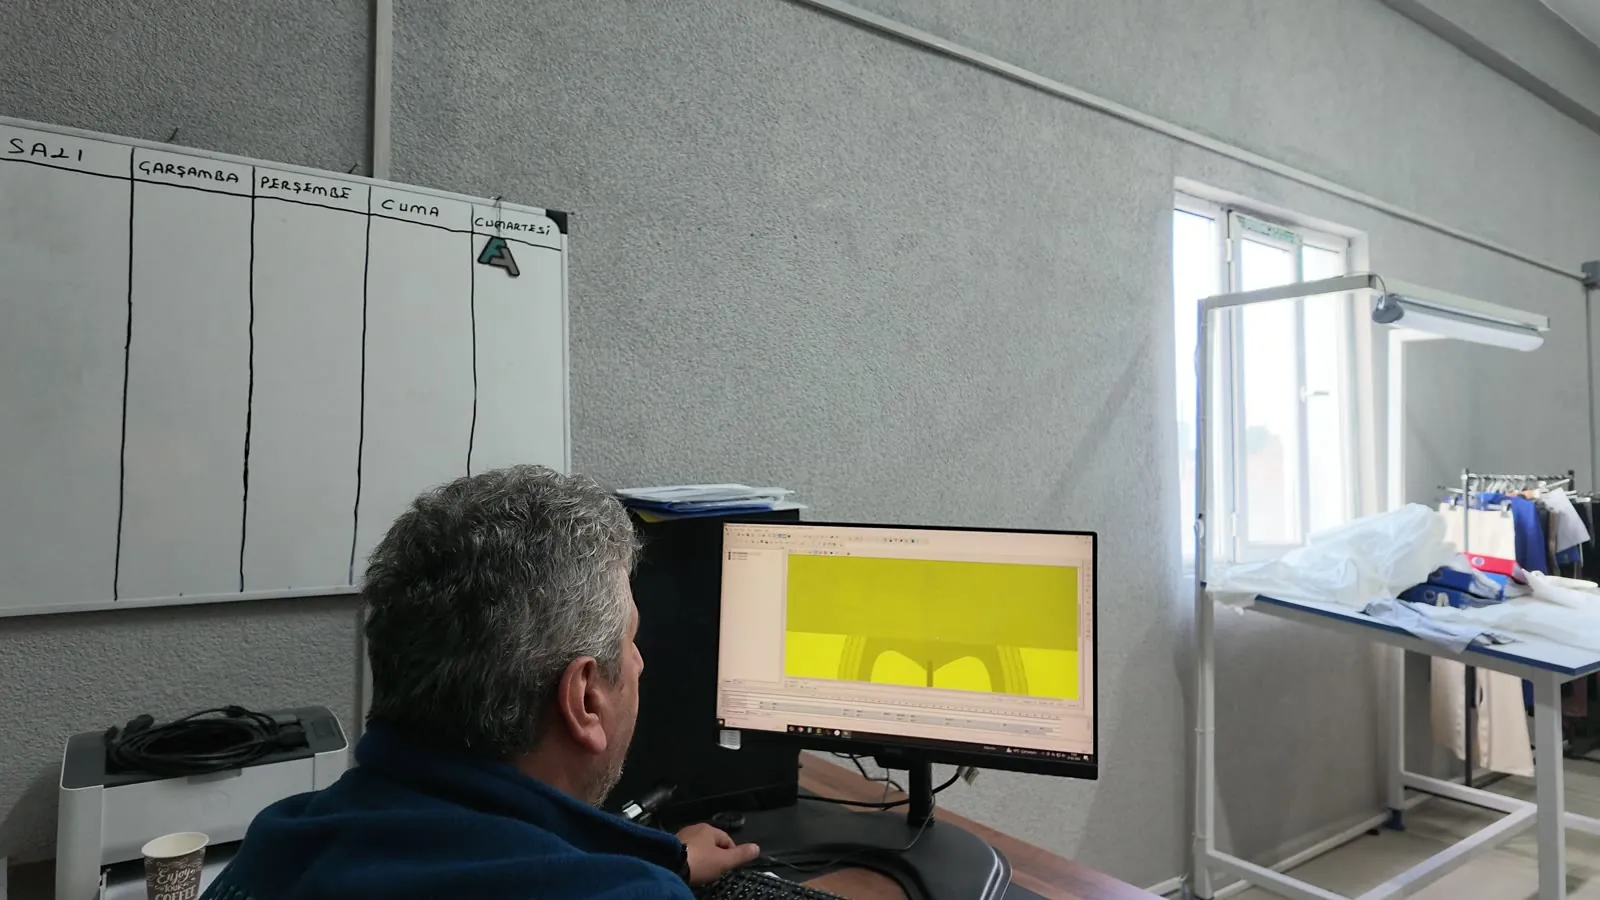
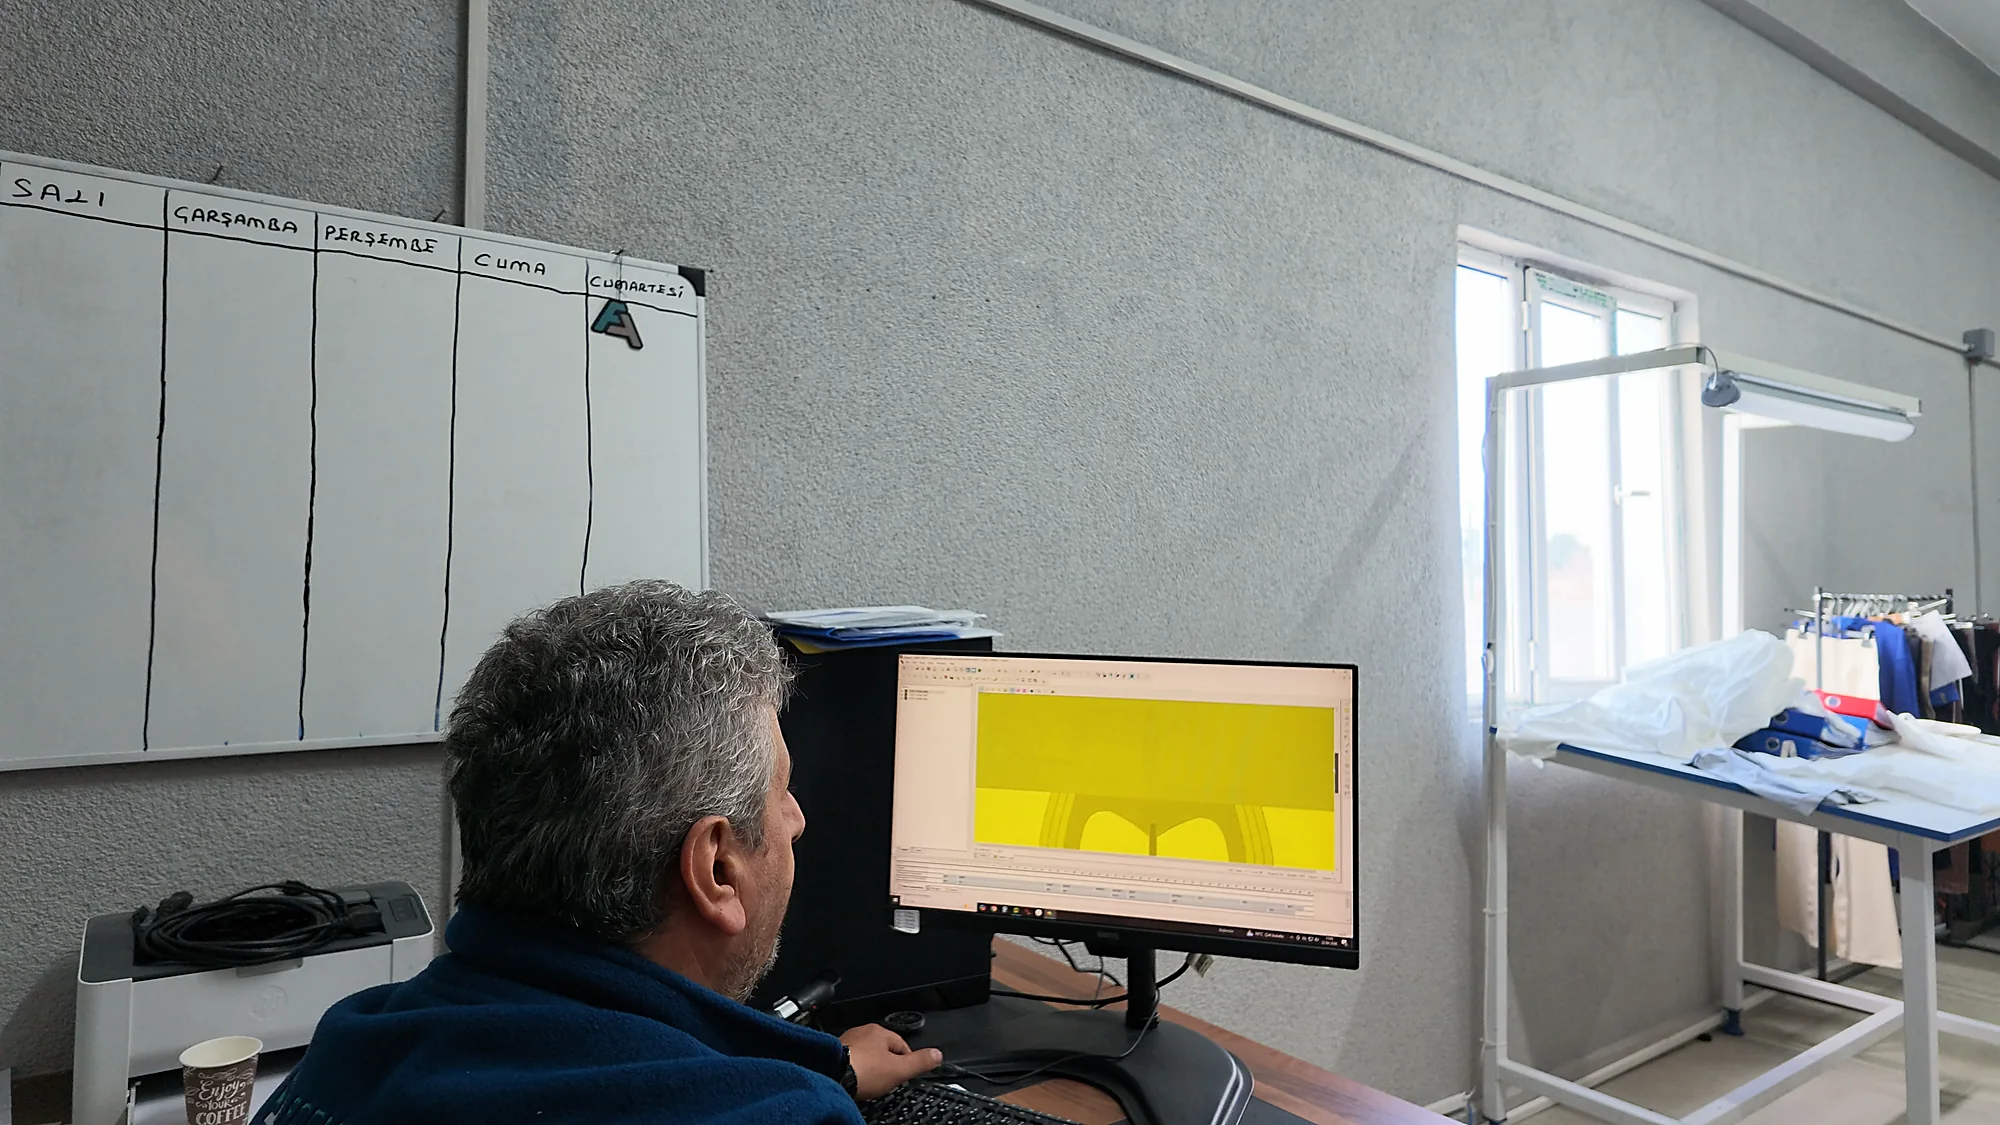
Görseller 4K çekimlerden yüksek kalitede yenilendi; hero ilk slaytı ve süreç adımları gerçek fabrika kareleri; kayan bant iki sıralı yeni yapı
Claude-Session: https://claude.ai/code/session_01KHVzSgb32H8fJu9vaSQ6GH

diff --git a/src/lib/site-media.ts b/src/lib/site-media.ts
@@ -10,11 +10,11 @@ const PRODUCT_IMAGES =
  * `fallback` kullanılır; yani panelde hiçbir şey yapılmadıysa site bugünkü gibi görünür.
  */
 export const SITE_IMAGE_SLOTS = [
-  { key: "pageHero", page: "Genel", label: "Sayfa başlık bandı (Hakkımızda, Süreçler, Katalog, Blog, İletişim)", fallback: "/images/factory-floor.webp" },
-  { key: "mobileNav.card", page: "Genel", label: "Mobil menüdeki teklif kartı", fallback: "/blog/Fuar-Blog.webp" },
-  { key: "home.heroPoster", page: "Ana sayfa", label: "Slider arka plan videosu yüklenirken görünen görsel", fallback: "/images/factory-floor.webp" },
+  { key: "pageHero", page: "Genel", label: "Sayfa başlık bandı (Hakkımızda, Süreçler, Katalog, Blog, İletişim)", fallback: "/tesis/orme-koridor.webp" },
+  { key: "mobileNav.card", page: "Genel", label: "Mobil menüdeki iletişim kartı", fallback: "/tesis/dis-cephe.webp" },
+  { key: "home.heroPoster", page: "Ana sayfa", label: "Slider arka plan videosu yüklenirken görünen görsel", fallback: "/tesis/hero-poster.webp" },
   { key: "home.color", page: "Ana sayfa", label: "Renk bölümü arka planı", fallback: "/marka/bg-sidea.webp" },
-  { key: "home.growth", page: "Ana sayfa", label: "Büyüme / vizyon bölümü arka planı", fallback: "/images/factory-floor.webp" },
+  { key: "home.growth", page: "Ana sayfa", label: "Büyüme / vizyon bölümü arka planı", fallback: "/tesis/dis-cephe-genis.webp" },
   { key: "home.collection.shorts", page: "Ana sayfa", label: "Koleksiyon kutusu: Aktif Giyim", fallback: `${PRODUCT_IMAGES}/1510/0-Y1.png.webp` },
   { key: "home.collection.tank", page: "Ana sayfa", label: "Koleksiyon kutusu: Kadın Aktif Spor Giyim", fallback: `${PRODUCT_IMAGES}/1550/0-ATOS6988.jpg.webp` },
   { key: "home.collection.leggings", page: "Ana sayfa", label: "Koleksiyon kutusu: Fonksiyonel Tekstiller", fallback: `${PRODUCT_IMAGES}/1700/0-ATOS0799.jpg.webp` },
@@ -33,17 +33,17 @@ export const SITE_IMAGE_SLOTS = [
   { key: "facility.dept-7", page: "Tesisimiz", label: "Bölüm 7: Ütü ve Paketleme", fallback: "/tesis/paketleme.webp" },
   { key: "facility.dept-8", page: "Tesisimiz", label: "Bölüm 8: Depo ve Sevkiyat", fallback: "/tesis/sevkiyat.webp" },
   { key: "facility.warehouse", page: "Tesisimiz", label: "Depo bandı (ürün sayımı)", fallback: "/tesis/depo-sayim.webp" },
-  { key: "about.intro", page: "Hakkımızda", label: "Giriş fotoğrafı", fallback: "/sureclerimiz/step-2-orme-teknolojisi.webp" },
+  { key: "about.intro", page: "Hakkımızda", label: "Giriş fotoğrafı", fallback: "/tesis/kumas-kontrol.webp" },
   { key: "about.mission", page: "Hakkımızda", label: "Misyon kartı", fallback: "/blog/Fuar-Blog.webp" },
-  { key: "about.vision", page: "Hakkımızda", label: "Vizyon kartı", fallback: "/images/factory-floor.webp" },
-  { key: "process.step-1", page: "Süreçlerimiz", label: "1. adım", fallback: "/sureclerimiz/step-1-tasarim.webp" },
-  { key: "process.step-2", page: "Süreçlerimiz", label: "2. adım", fallback: "/sureclerimiz/step-2-orme-teknolojisi.webp" },
-  { key: "process.step-3", page: "Süreçlerimiz", label: "3. adım", fallback: "/sureclerimiz/step-3-malzeme.webp" },
-  { key: "process.step-4", page: "Süreçlerimiz", label: "4. adım", fallback: "/sureclerimiz/step-4-dikissiz-orme.webp" },
-  { key: "process.step-5", page: "Süreçlerimiz", label: "5. adım", fallback: "/sureclerimiz/step-5-kalite-kontrol.webp" },
+  { key: "about.vision", page: "Hakkımızda", label: "Vizyon kartı", fallback: "/tesis/dis-cephe-genis.webp" },
+  { key: "process.step-1", page: "Süreçlerimiz", label: "1. adım", fallback: "/tesis/arge.webp" },
+  { key: "process.step-2", page: "Süreçlerimiz", label: "2. adım", fallback: "/tesis/orme-salonu-2.webp" },
+  { key: "process.step-3", page: "Süreçlerimiz", label: "3. adım", fallback: "/tesis/iplik.webp" },
+  { key: "process.step-4", page: "Süreçlerimiz", label: "4. adım", fallback: "/tesis/orme-yakin.webp" },
+  { key: "process.step-5", page: "Süreçlerimiz", label: "5. adım", fallback: "/tesis/kalite-olcum.webp" },
   { key: "process.step-6", page: "Süreçlerimiz", label: "6. adım", fallback: "/sureclerimiz/step-6-boyama.webp" },
-  { key: "process.step-7", page: "Süreçlerimiz", label: "7. adım", fallback: "/sureclerimiz/step-7-dikim.webp" },
-  { key: "process.step-8", page: "Süreçlerimiz", label: "8. adım", fallback: "/sureclerimiz/step-8-ambalaj.webp" },
+  { key: "process.step-7", page: "Süreçlerimiz", label: "7. adım", fallback: "/tesis/dikim.webp" },
+  { key: "process.step-8", page: "Süreçlerimiz", label: "8. adım", fallback: "/tesis/paketleme.webp" },
 ] as const;
 
 export type SiteImageKey = (typeof SITE_IMAGE_SLOTS)[number]["key"];

diff --git a/src/app/[locale]/page.tsx b/src/app/[locale]/page.tsx
@@ -7,6 +7,7 @@ import type { Locale } from "@/i18n/routing";
 import { blogImageUrl, getBlogPosts, getContent } from "@/lib/data";
 import StatCounter from "@/components/StatCounter";
 import Reveal from "@/components/Reveal";
+import Marquee from "@/components/Marquee";
 import AutoVideo from "@/components/AutoVideo";
 import CatalogueDownloadForm from "@/components/CatalogueDownloadForm";
 import NewsletterForm from "@/components/NewsletterForm";
@@ -30,9 +31,9 @@ function buildHeroSlides(c: {
       title: c.heroTitle,
       subtitle: c.heroSubtitle,
       images: [
-        "/images/factory-floor.webp",
-        "/blog/Fuar-Blog.webp",
-        "/sureclerimiz/step-7-dikim.webp",
+        "/tesis/dikey/dis-cephe.webp",
+        "/tesis/dikey/orme.webp",
+        "/tesis/dikey/dikim.webp",
       ],
     },
     {
@@ -63,6 +64,14 @@ const FACILITY_CLIPS = [
   { src: "/video/tesis/paketleme.mp4", poster: "/tesis/paketleme.webp" },
   { src: "/video/tesis/depo.mp4", poster: "/tesis/depo-sayim.webp" },
 ];
+
+// Paneldeki ilk slaytta hâlâ eski stok/yapay görseller kayıtlıysa, yerlerine fabrikamızın
+// kendi çekimleri gösterilir. Panelden yeni görsel yüklenirse o geçerli olur.
+const LEGACY_HERO_IMAGES: Record<string, string> = {
+  "/images/factory-floor.webp": "/tesis/dikey/dis-cephe.webp",
+  "/blog/Fuar-Blog.webp": "/tesis/dikey/orme.webp",
+  "/sureclerimiz/step-7-dikim.webp": "/tesis/dikey/dikim.webp",
+};
 
 // Koleksiyon kutularının sırası; anahtar içerik dosyalarındaki "icon" alanıdır (5 dilde ortak)
 const COLLECTION_ORDER = ["shorts", "tank", "leggings", "bra", "corset"];
@@ -104,7 +113,7 @@ export default async function HomePage(props: PageProps<"/[locale]">) {
     ? slideRows.map((s) => ({
         title: localized(s.title, locale),
         subtitle: localized(s.subtitle, locale),
-        images: s.images,
+        images: s.images.map((src) => LEGACY_HERO_IMAGES[src] ?? src),
       }))
     : buildHeroSlides(c);
 
@@ -113,7 +122,6 @@ export default async function HomePage(props: PageProps<"/[locale]">) {
     const col = (c.collections as Collection[]).find((x) => x.icon === icon);
     return col ? [{ ...col, image: images[`home.collection.${icon}` as SiteImageKey] }] : [];
   });
-  const marquee = [...c.processList, ...c.yarnFeatures] as string[];
 
   return (
     <>
@@ -125,24 +133,8 @@ export default async function HomePage(props: PageProps<"/[locale]">) {
         poster={images["home.heroPoster"]}
       />
 
-      {/* Kayan şerit: süreçler ve kumaş özellikleri */}
-      <div className="overflow-hidden border-b border-black/5 bg-white py-4" aria-hidden="true">
-        <div className="marquee-track">
-          {[0, 1].map((n) => (
-            <div key={n} className="flex shrink-0 items-center">
-              {marquee.map((item) => (
-                <span
-                  key={`${n}-${item}`}
-                  className="flex items-center gap-8 pe-8 font-heading text-sm font-semibold uppercase tracking-[0.18em] text-brand-navy/70"
-                >
-                  {item}
-                  <span className="h-1.5 w-1.5 rounded-full bg-brand-navy/30" />
-                </span>
-              ))}
-            </div>
-          ))}
-        </div>
-      </div>
+      {/* Kayan bant: üretim adımları + kumaş özellikleri */}
+      <Marquee primary={c.processList as string[]} secondary={c.yarnFeatures as string[]} />
 
       {/* Hakkımızda + rakamlar */}
       <section className="mx-auto max-w-7xl px-4 py-24 sm:px-6 lg:px-8">

diff --git a/src/components/Marquee.tsx b/src/components/Marquee.tsx
@@ -1,0 +1,46 @@
+/**
+ * Hero altındaki kayan bant: üstte büyük harflerle üretim adımları, altta ters yöne
+ * akan kumaş özelliği çipleri. Kenarlar yumuşakça kaybolur; üzerine gelince durur.
+ */
+export default function Marquee({ primary, secondary }: { primary: string[]; secondary: string[] }) {
+  return (
+    <div className="marquee relative overflow-hidden bg-brand-navy py-7 text-white sm:py-9" aria-hidden="true">
+      <div className="marquee-mask">
+        <div className="marquee-track">
+          {[0, 1].map((n) => (
+            <div key={n} className="flex shrink-0 items-center">
+              {primary.map((item, i) => (
+                <span key={`${n}-${item}`} className="flex items-center">
+                  <span
+                    className={`whitespace-nowrap px-6 font-heading text-2xl font-extrabold tracking-tight sm:px-9 sm:text-4xl ${
+                      i % 2 === 1 ? "marquee-outline" : ""
+                    }`}
+                  >
+                    {item}
+                  </span>
+                  <svg viewBox="0 0 24 24" className="h-4 w-4 shrink-0 text-white/40 sm:h-5 sm:w-5">
+                    <path d="M12 2 14.2 9.8 22 12l-7.8 2.2L12 22l-2.2-7.8L2 12l7.8-2.2z" fill="currentColor" />
+                  </svg>
+                </span>
+              ))}
+            </div>
+          ))}
+        </div>
+        <div className="marquee-track marquee-reverse mt-5 sm:mt-6">
+          {[0, 1].map((n) => (
+            <div key={n} className="flex shrink-0 items-center gap-3 pe-3">
+              {secondary.map((item) => (
+                <span
+                  key={`${n}-${item}`}
+                  className="whitespace-nowrap rounded-full border border-white/20 bg-white/5 px-5 py-2 font-heading text-[11px] font-semibold uppercase tracking-[0.16em] text-white/75 sm:text-xs"
+                >
+                  {item}
+                </span>
+              ))}
+            </div>
+          ))}
+        </div>
+      </div>
+    </div>
+  );
+}

diff --git a/src/app/globals.css b/src/app/globals.css
@@ -94,11 +94,36 @@ h1, h2, h3, h4, h5, h6 {
 .marquee-track {
   display: flex;
   width: max-content;
-  animation: marquee 45s linear infinite;
+  animation: marquee 55s linear infinite;
+}
+
+.marquee-track.marquee-reverse {
+  animation-direction: reverse;
+  animation-duration: 70s;
 }
 
 [dir="rtl"] .marquee-track {
   animation-direction: reverse;
+}
+
+[dir="rtl"] .marquee-track.marquee-reverse {
+  animation-direction: normal;
+}
+
+.marquee:hover .marquee-track {
+  animation-play-state: paused;
+}
+
+/* Kenarlarda yumuşak kaybolma */
+.marquee-mask {
+  -webkit-mask-image: linear-gradient(90deg, transparent, #000 7%, #000 93%, transparent);
+  mask-image: linear-gradient(90deg, transparent, #000 7%, #000 93%, transparent);
+}
+
+/* Dönüşümlü olarak yalnızca kontur çizgili yazı */
+.marquee-outline {
+  color: transparent;
+  -webkit-text-stroke: 1px rgba(255, 255, 255, 0.55);
 }
 
 @media (prefers-reduced-motion: reduce) {
